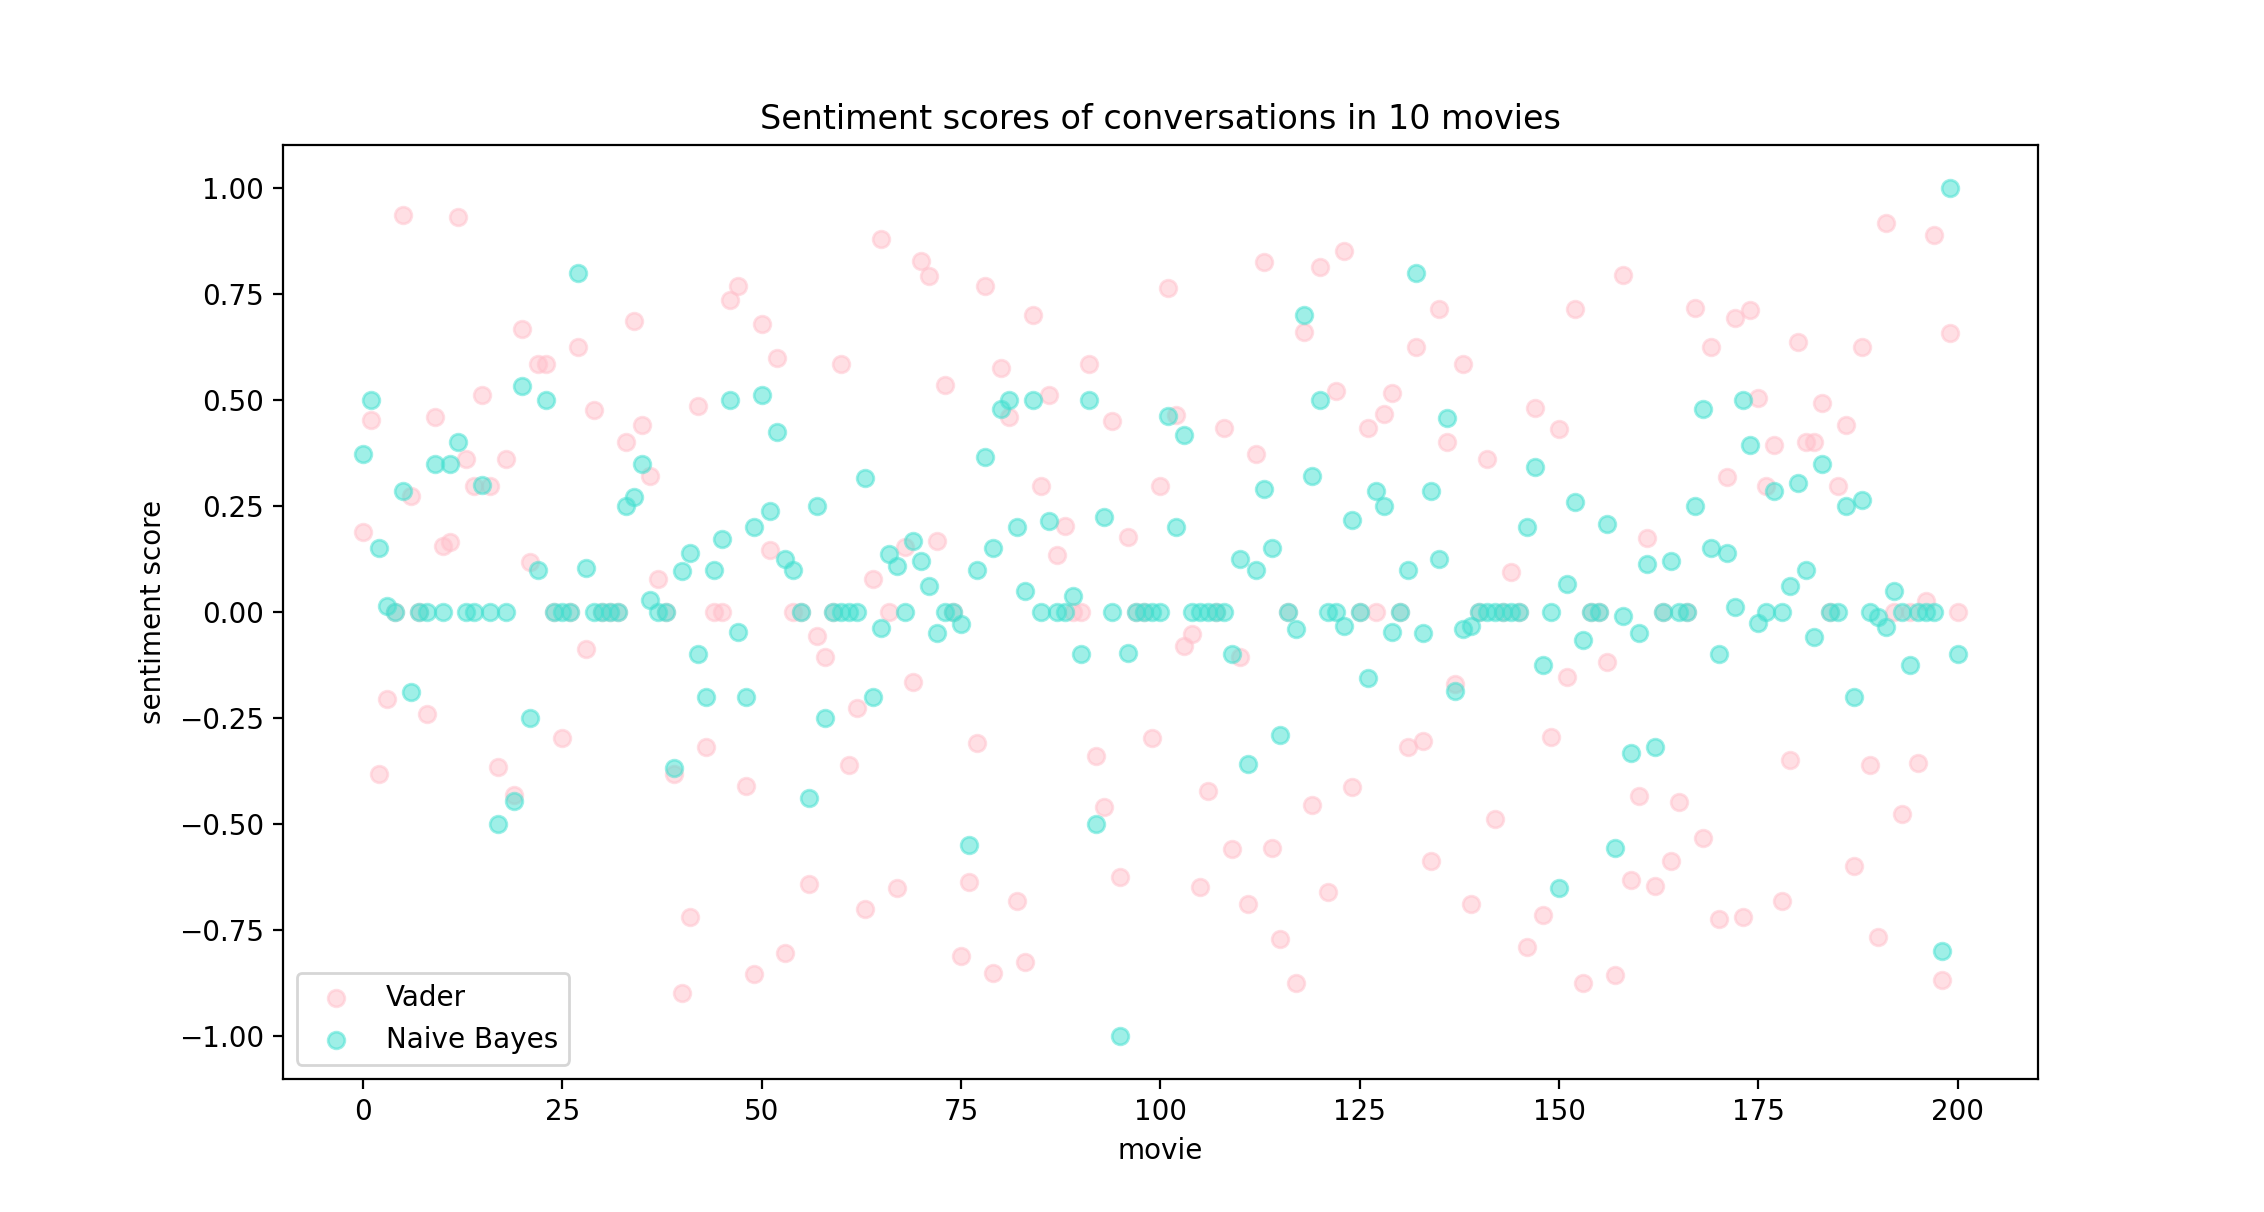
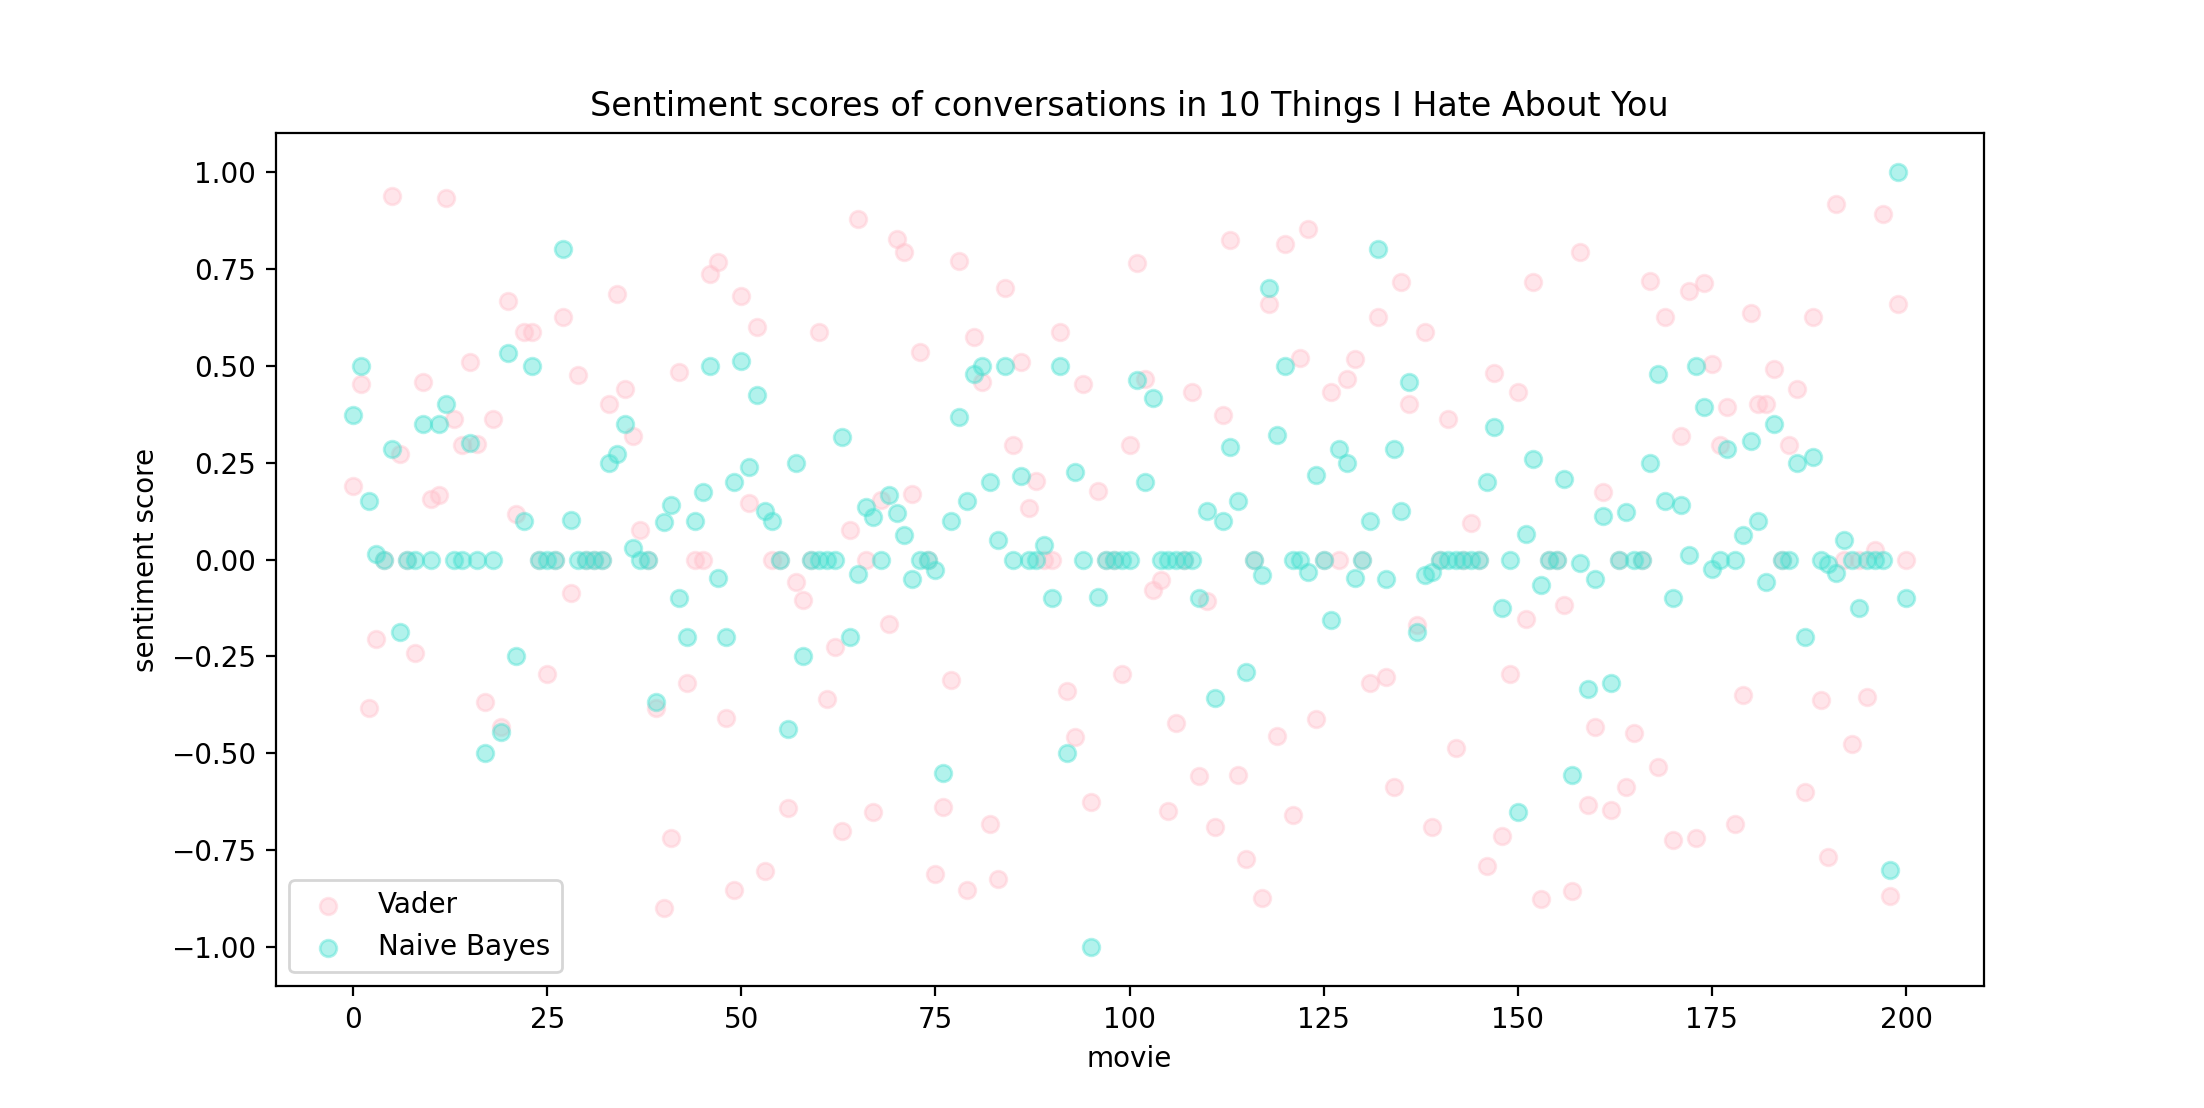
fix scatterplot

diff --git a/sentiment_data.py b/sentiment_data.py
@@ -36,9 +36,9 @@ def graph_single():
     """
     df = pd.read_csv('data/sentiment_m0.csv')
     data = df.to_dict(orient="list")
-    v = plt.scatter(data['conv_id'], data['vader'], color="pink", alpha=0.5)
-    n = plt.scatter(data['conv_id'], data['nb'], color="turquoise", alpha=0.5)
-    plt.title("Sentiment scores of conversations in 10 movies")
+    v = plt.scatter(data['conv_id'], data['vader'], color="pink", alpha=0.4)
+    n = plt.scatter(data['conv_id'], data['nb'], color="turquoise", alpha=0.4)
+    plt.title("Sentiment scores of conversations in 10 Things I Hate About You")
     plt.xlabel("movie")
     plt.ylabel("sentiment score")
     plt.legend([v, n], ["Vader", "Naive Bayes"])
